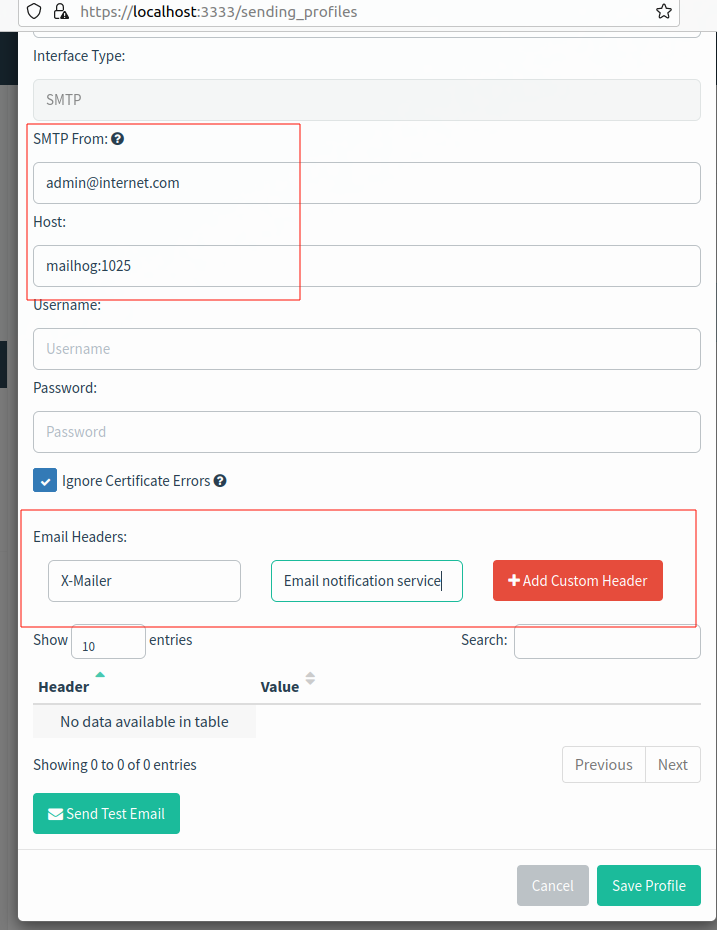
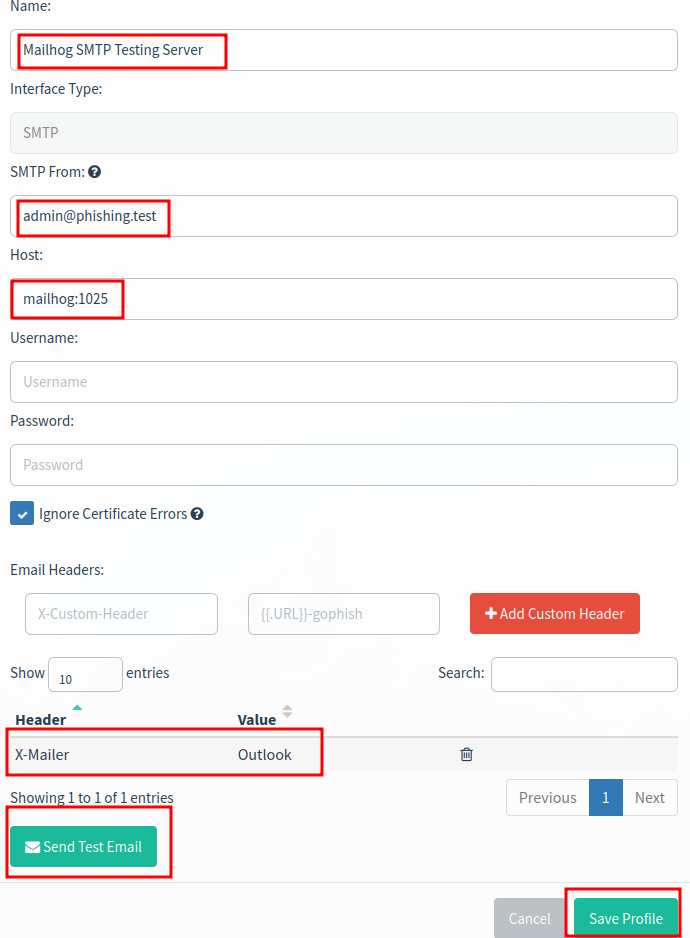
Updates

diff --git a/content/how_to/Phishing Credential Harvesting and Beyond/20-infrastructure.md b/content/how_to/Phishing Credential Harvesting and Beyond/20-infrastructure.md
@@ -41,24 +41,46 @@ sudo apt-get install docker-ce docker-ce-cli containerd.io docker-buildx-plugin 
 
 I also installed VS Code (https://code.visualstudio.com/sha/download?build=stable&os=linux-deb-x64)
 
+In an effort to make things more clear and easier to understand while we hop through browser tabs and URLS, we'll want to setup some DNS magic for our docker conainters. This requires us to replace the default `systemd-resolved` in Ubuntu with `dnsmasq`. Then we'll use a program to populate `dnsmasq` configs with docker container information. This step is only for local testing.
 
-#### Clone Repo for future reference
+This [article](https://computingforgeeks.com/install-and-configure-dnsmasq-on-ubuntu/) came in handy to switch to `dnsmasq`. In addition to that article, we'll also need to add the following to the `dnsmasq.conf`
 
-```bash
-mkdir ~/opt/
-cd ~/opt/
-git clone replaceme
-cd repolaceme/docker/
-``` 
 
-#### Ensuring it all works
-
-```bash
-sudo docker compose up
+```conf
+conf-dir=/etc/dnsmasq.d
 ```
 
-Open the Gophish admin interface [https://localhost:3333/](https://localhost:3333/).
+Now we need to install Golang so we can build [docker-dnsmaq](https://github.com/defektive/docker-dnsmasq).
+
+```bash
+sudo apt install golang
+go install github.com/defektive/docker-dnsmasq@latest
+```
+
+Now we should be able to run this in a new terminal window:
+
+```bash
+sudo ~/go/bin/docker-dnsmasq daemon
+```
+
+We can test everything is working properly by starting a container with the `VIRTUAL_HOST` environment variable. Then pinging that docker container `VIRTUAL_HOST` name.
+
+```bash
+ping mailhog.docker
+```
+
+![Ping Docker Container](/static/how-to-phishing/ping-docker-container.png)
+
+We should also be able to ping random subdomains:
+
+```bash
+ping asdasd.mailhog.docker
+```
+
+![Ping Docker Container Subdomain](/static/how-to-phishing/ping-docker-container-subdomain.png)
 
 ### Windows VM
 
 We'll want a Windows box to do a little bit of payload development and testing. Once windows is installed, we'll need to install [Visual Studio Community](https://visualstudio.microsoft.com/vs/community/). When configuring visual studio select *.NET Development*.
+
+TODO: Screenshots

diff --git a/content/how_to/Phishing Credential Harvesting and Beyond/30-Gophish.md b/content/how_to/Phishing Credential Harvesting and Beyond/30-Gophish.md
@@ -46,14 +46,8 @@ Now we can add gophish to our docker-compose services.
     container_name: "gophish"
     environment:
       - VIRTUAL_HOST=gophish.docker
-    ports:
-      - "127.0.0.1:3333:3333"
-      - "127.0.0.2:80:80"
-      - "127.0.0.2:443:443"
-
     links:
       - "mailhog"
-
     volumes:
       - "gophish:/opt/gophish"
       - "./gophish/config.json:/opt/gophish/config.json"
@@ -68,7 +62,6 @@ volumes:
 We should be able to brind up docker compose now:
 
 ```bash
-cd ~/Desktop/op/docker
 sudo docker compose up
 ```
 
@@ -79,9 +72,11 @@ cd ~/Desktop/op/docker
 sudo docker compose logs gophish | grep " password "
 ```
 
-- Open https://localhost:3333/
-- login with admin and the password you found in the logs
-- change password
+![Gophish Initial Password](/static/how-to-phishing//gophish-initial-password.png)
+
+- Open [http://gophish.docker:3333/](http://gophish.docker:3333/).
+- login with the user `admin` and the password you found in the logs.
+- change password (I used `gophishpass` for the VM).
 
 * * *
 
@@ -89,8 +84,20 @@ sudo docker compose logs gophish | grep " password "
 
 Go to `Sending Profiles` > `+ New Sending Profile`.
 
+- Set **Name** to `Mailhog SMTP Testing Server`.
+- Set **SMTP From** to an email, I used `admin@phishing.test`.
+- Set **Host** to `mailhog:1025`, as this is the name of the linked container in the docker compose file.
+- Add a new Email Header `X-Mailer` and set it to `Outlook`. This overrides Gophish's default of `Gophish`.
+
 ![SMTP Settings](/static/how-to-phishing/gophish-mailhog-smtp.png)
 
-- `Send Test Email`
+- Click `Send Test Email`.
+- Fill out the fields with mostly random things.
+
+![Gophish Mailhog Send Test Email](/static/how-to-phishing/gophish-mailhog-smtp-test-email.png)
+
 - We should see a nice tesing email in mailhog
-- Click `Save`
+
+![Mailhog Gophish Test Email](mailhog-gophish-test-email.png)
+
+- Since everything is working, Click `Save` on the send profile.

diff --git a/content/how_to/Phishing Credential Harvesting and Beyond/25-Mailhog.md b/content/how_to/Phishing Credential Harvesting and Beyond/25-Mailhog.md
@@ -16,8 +16,6 @@ services:
       - VIRTUAL_HOST=mailhog.docker
     logging:
       driver: 'none'  # disable saving logs
-    ports:
-      - "127.0.0.1:8025:8025"
 
 ```
 
@@ -28,4 +26,6 @@ cd ~/Desktop/op/docker/
 sudo docker-compose up
 ```
 
-Let's open up the web interface now [http://localhost:8025](http://localhost:8025).
+Let's open up the web interface now [http://mailhog.docker:8025/](http://mailhog.docker:8025/).
+
+![Mailhog Landing Page](/static/how-to-phishing/mailhog-first-setup.png)
